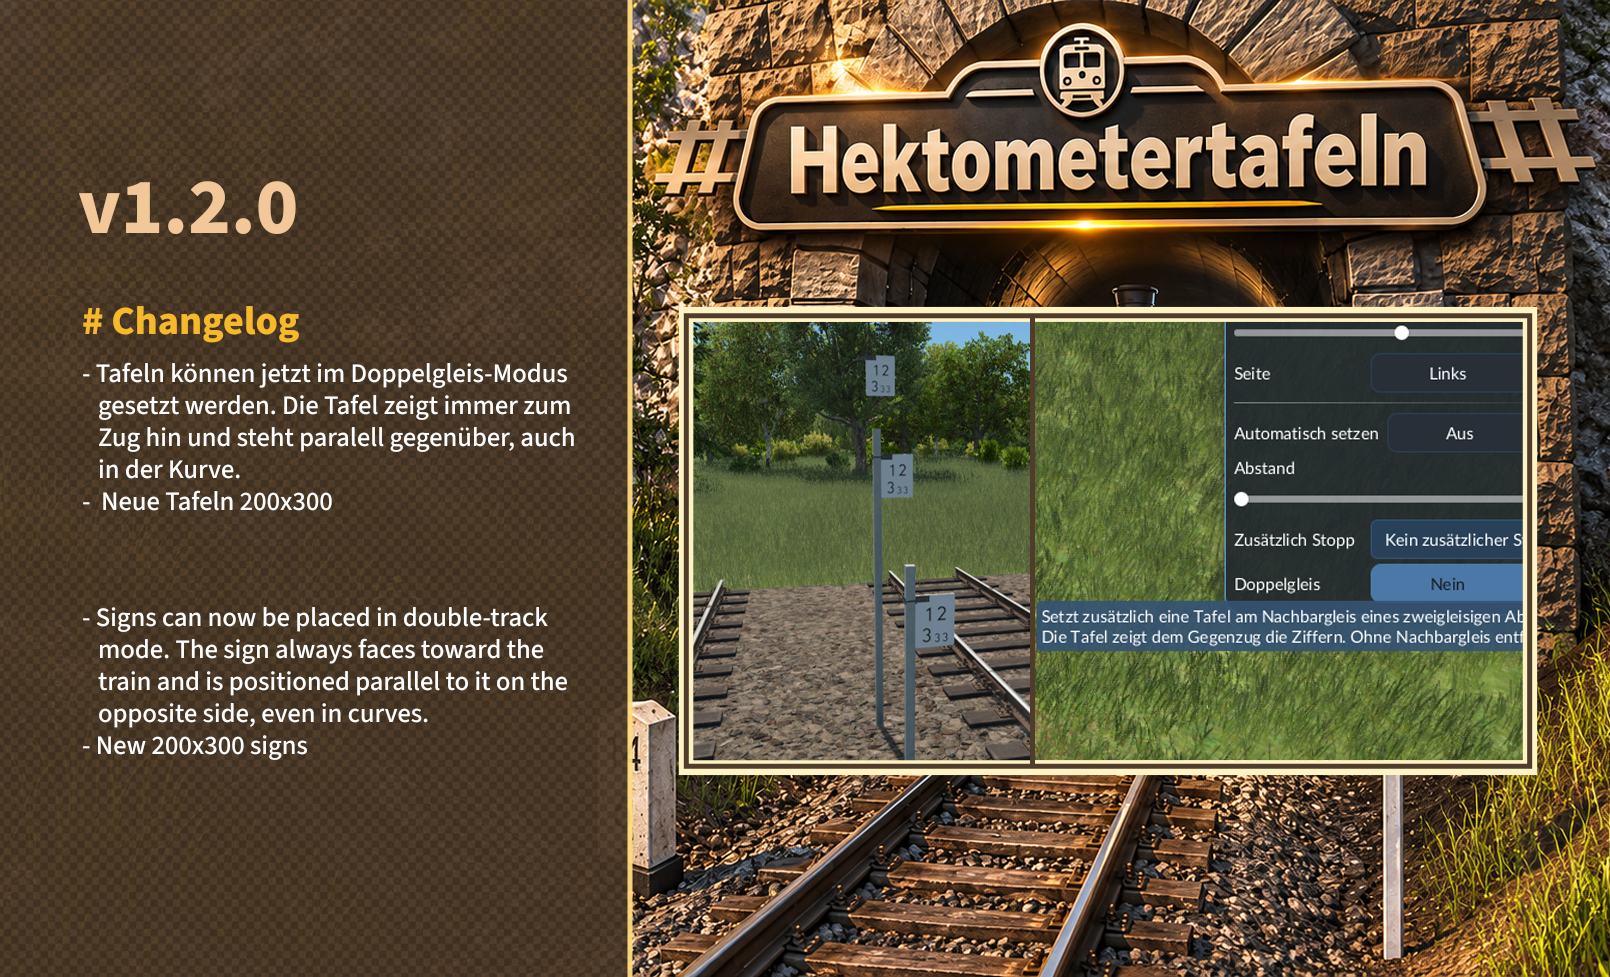
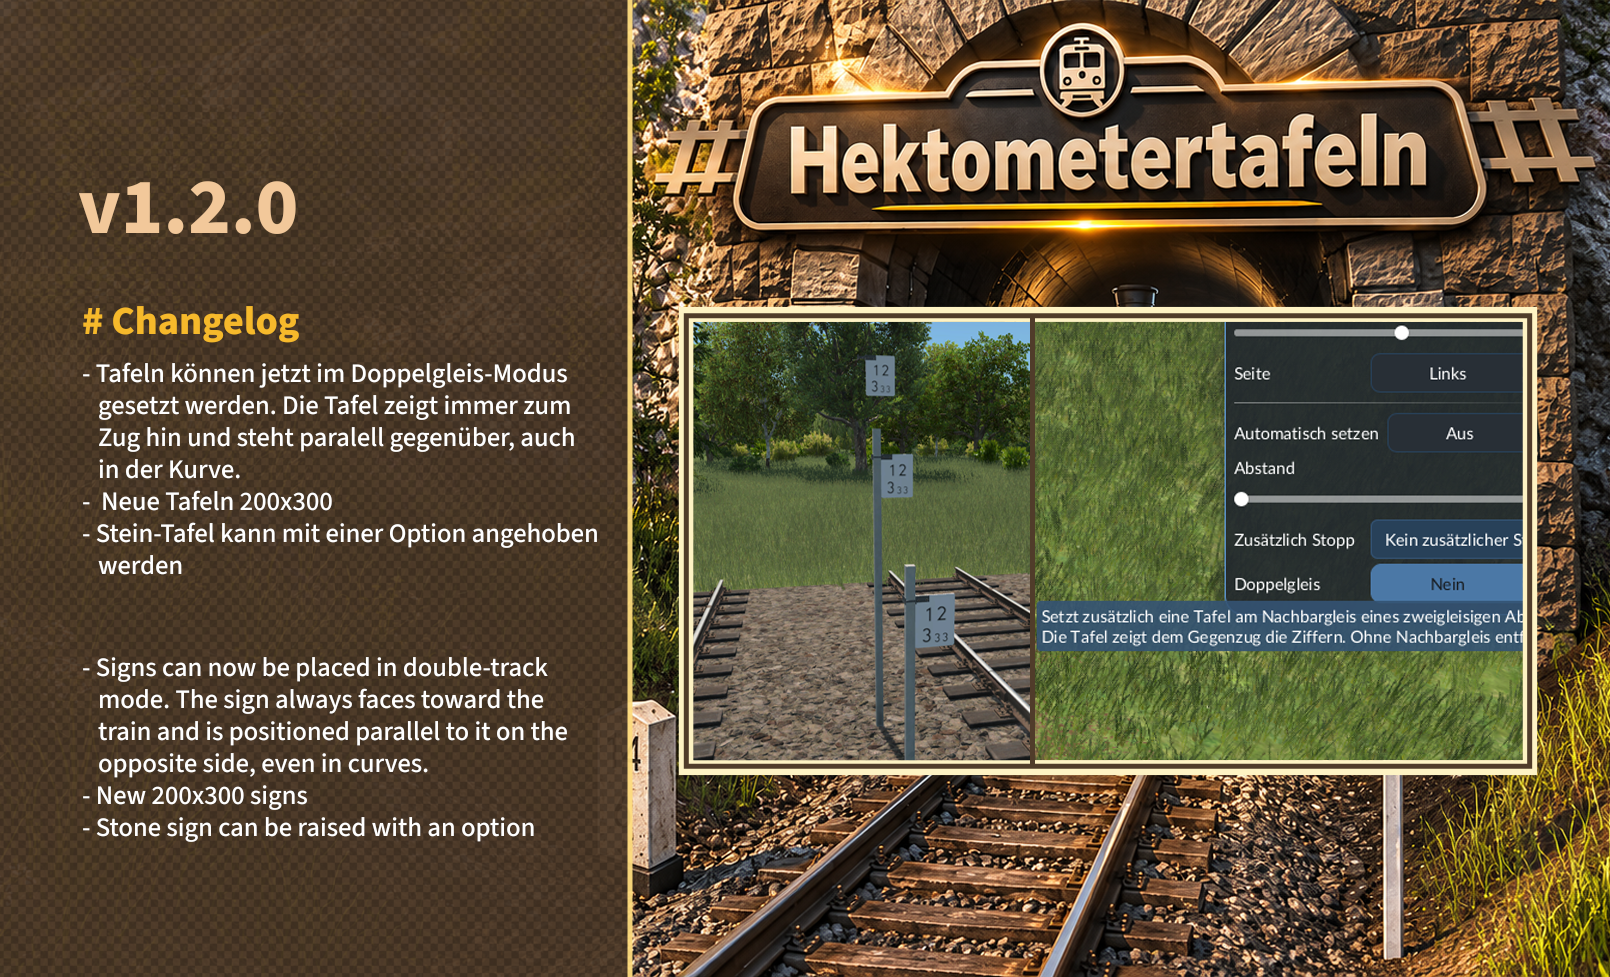
Pre-release v1.2.0

Changed region(s): [[0.0621, 0.6141, 0.3727, 0.8598], [0.0621, 0.522, 0.3727, 0.5834]]

diff --git a/_metadata/description.html b/_metadata/description.html
@@ -15,6 +15,8 @@
         Als erste Stelle kann ein Minus gewählt werden, zum Beispiel für Strecken mit negativer Kilometrierung. Auch Auto-Setzen zählt damit weiter.</li>
     <li><strong>Metergenaue Angaben</strong>
         Bei den Tafeln lässt sich zusätzlich eine zweistellige Meteranzeige unten rechts einblenden.</li>
+    <li><strong>Doppelgleis-Option</strong>
+        Zu jeder Tafel wird eine passende Partnertafel am parallelen Nachbargleis gesetzt – mit derselben Kilometrierung und Ausrichtung für den Gegenzug. Fehlt ein Nachbargleis, wird nur die Partnertafel ausgelassen. Im Auto-Setzen und einzeln möglich.</li>
 </ul>
 
 
@@ -35,6 +37,13 @@
 <p>&nbsp;</p>
 <h3>Changelog</h3>
 <ul>
+    <li>
+        <strong>v1.2.0 (Rev3)</strong> (26.11.2026)<ul>
+            <li>Doppelgleis-Feature eingebaut</li>
+            <li>Neue Tafel-Form 200x300 hinzugefügt</li>
+            <li>Stein-Tafel kann mit einer Option angehoben werden</li>
+        </ul>
+    </li>
     <li>
         <strong>v1.1.0 (Rev2)</strong> (19.11.2026)<ul>
             <li>Texturen wurden einheitlich auf 1024 angepasst</li>
@@ -67,6 +76,8 @@
         A minus can be chosen as the first digit, for example for lines with negative kilometrage. Auto placement keeps counting with it, too.</li>
     <li><strong>Metre-exact values</strong>
         On the boards a two-digit metre display can additionally be shown at the bottom right.</li>
+    <li><strong>Double track option</strong>
+        For each marker, a corresponding partner marker is placed on the parallel neighboring track – with the same kilometre marking and orientation for the opposite direction. If there is no neighboring track, only the partner marker is omitted. Available for both auto placement and individual placement.</li>
 </ul>
 
 <p>&nbsp;</p>
@@ -88,6 +99,13 @@
 
 <h3>Changelog</h3>
 <ul>
+    <li>
+        <strong>v1.2.0 (Rev3)</strong> (11/26/2026)<ul>
+            <li>Double-track feature implemented</li>
+            <li>New sign format 200x300 added</li>
+            <li>Stone sign can be raised with an option</li>
+        </ul>
+    </li>
     <li>
         <strong>v1.1.0 (Rev2)</strong> (11/19/2026)<ul>
             <li>Textures have been standardized to 1024</li>

diff --git a/readme.md b/readme.md
@@ -3,7 +3,7 @@
 <div align="center">
 
 [![TransportFever3](https://img.shields.io/badge/TransportFever3-22282E?style=flat-square)](https://www.transportfever3.com/de/)
-[![Mod.io Version](https://img.shields.io/badge/Mod.io-Rev2-07C1D8?style=flat-square)](https://mod.io/g/transportfever3/m/hektometertafeln#description)
+[![Mod.io Version](https://img.shields.io/badge/Mod.io-Rev3-07C1D8?style=flat-square)](https://mod.io/g/transportfever3/m/hektometertafeln#description)
 [![Last commit](https://img.shields.io/github/last-commit/Peppie84/tpf3-Hectometermarker?style=flat-square&color=important)](https://github.com/Peppie84/tpf3-Hectometermarker/commits/development)
 [![GitHub issues](https://img.shields.io/github/issues/Peppie84/tpf3-Hectometermarker?style=flat-square)](https://github.com/Peppie84/tpf3-Hectometermarker/issues)
 [![Top language](https://img.shields.io/github/languages/top/Peppie84/tpf3-Hectometermarker?style=flat-square&color=blueviolet)](https://github.com/search?q=repo%3APeppie84%2Ftpf3-Hectometermarker++language%3ALua&type=code)
@@ -24,13 +24,15 @@ Kilometer- und Hektometertafeln für Bahngleise in Transport Fever 3: als Stein 
 - **Mehrere Designgruppen mit Varianten**
   Hektometerstein sowie Tafeln der Bauform DE|CH|AT in den Größen 610x320 und 800x480 (zweistelliger Kilometer) und 610x480 und 800x720 (dreistelliger Kilometer). Die Tafeln gibt es mit Mast, mit Wandhalterung oder ohne Halterung, optional mit Reflektor. Die Anzeige lässt sich einseitig oder beidseitig wählen: Bei beidseitiger Anzeige sind die Ziffern auf Vorder- und Rückseite lesbar.
 - **Automatisch setzen mit Weiterzählen**
-  Beim Setzen einer Tafel wählst du einen Abstand (100 bis 1000 m). Die Mod setzt entlang des Gleises in Pfeilrichtung weitere Tafeln und zählt Kilometer und Hektometer vom Startwert weiter. An Weichen folgt das Setzen dem geradesten Gleis. Es endet am Gleisende, vor der nächsten Tafel auf derselben Seite und beim Höchstwert von 99,9 km (dreistellig 999,9 km). Auf Bahnhofsgleisen werden keine Tafeln gesetzt, die Zählung läuft dahinter weiter. Lehnt das Spiel eine Tafel ab, weicht die Mod um bis zu 15 m aus; mit aktiver Meteranzeige passen sich die Meterwerte an. Jede Tafel wird passend benannt, zum Beispiel "Hektometertafel 12,600".
+  Beim Setzen einer Tafel wählst du einen Abstand (100 bis 1000 m). Die Mod setzt entlang des Gleises in Pfeilrichtung weitere Tafeln und zählt Kilometer und Hektometer vom Startwert weiter. An Weichen folgt das Setzen dem geradesten Gleis. Es endet am Gleisende, vor der nächsten Tafel auf derselben Seite, beim Höchstwert von 99,9 km (dreistellig 999,9 km) oder beim selektierten Stopp. Auf Bahnhofsgleisen werden keine Tafeln gesetzt, die Zählung läuft dahinter weiter. Lehnt das Spiel eine Tafel ab, weicht die Mod um bis zu 15 m aus; mit aktiver Meteranzeige passen sich die Meterwerte an. Jede Tafel wird passend benannt, zum Beispiel "Hektometertafel 12,600".
 - **Höhe und Versatz wählbar**
   Tief, Default oder Hoch (Hoch nur bei Wandhalterung und ohne Halterung), dazu die Seite, Abstand zur Gleismitte (1,8 bis 3,4 m) und Versatz (±1,5 m).
 - **Negative Werte**
   Als erste Stelle kann ein Minus gewählt werden, zum Beispiel für Strecken mit negativer Kilometrierung. Auch Auto-Setzen zählt damit weiter.
 - **Meter-genaue Angaben**
   Bei den Tafeln lässt sich zusätzlich eine zweistellige Meteranzeige unten rechts einblenden.
+- **Doppelgleis-Option**
+  Zu jeder Tafel wird eine passende Partnertafel am parallelen Nachbargleis gesetzt – mit derselben Kilometrierung und Ausrichtung für den Gegenzug. Fehlt ein Nachbargleis, wird nur die Partnertafel ausgelassen. Im Auto-Setzen und einzeln möglich.
 
 ### Hinweis zur KI Nutzung
 Bei einzelnen kleineren Teilbereichen der Entwicklung (z. B. Code-Hilfe oder Textformulierung) kam unterstützend KI (Microsoft Copilot) zum Einsatz. Das Titelbild (basierend auf einem eigenen Screenshot) sowie das Logo wurden mithilfe von ChatGPT erstellt.
@@ -45,6 +47,10 @@ Bugs oder Features können auf GitHub oder Mod.io gemeldet werden.
 
 ### Changelog
 
+- **v1.2.0 (Rev3)** (26.11.2026)<br />
+  - Doppelgleis-Feature eingebaut<br />
+  - Neue Tafel-Form 200x300 hinzugefügt<br />
+  - Stein-Tafel kann mit einer Option angehoben werden<br />
 - **v1.1.0 (Rev2)** (19.11.2026)<br />
   - Texturen wurden einheitlich auf 1024<br />
     angepasst<br />
@@ -68,13 +74,15 @@ Kilometre and hectometre markers for railway tracks in Transport Fever 3: as a s
 - **Several design groups with variants**
   Hectometre stone and DE|CH|AT-style boards in the sizes 610x320 and 800x480 (two-digit kilometre) as well as 610x480 and 800x720 (three-digit kilometre). The boards are available with a pole, wall brackets or without mounting, optionally with a reflector. The display can be single-sided or both-sided: with both-sided display the digits are readable from the front and the back.
 - **Auto placement with continuous counting**
-  When placing a marker you choose a spacing (100 to 1000 m). The mod places further markers along the track in the direction of the arrow and keeps counting kilometres and hectometres from the start value. At switches placement follows the straightest track. It ends at the end of the track, before the next marker on the same side and at the highest value of 99.9 km (three-digit: 999.9 km). No markers are placed on station tracks; counting continues behind them. If the game rejects a marker, the mod moves it by up to 15 m; with the metre display on, the metre values adapt. Every marker is named accordingly, for example "Hectometer marker 12,6".
+  When placing a marker you choose a spacing (100 to 1000 m). The mod places further markers along the track in the direction of the arrow and keeps counting kilometres and hectometres from the start value. At switches placement follows the straightest track. It ends at the end of the track, before the next marker on the same side, at the highest value of 99.9 km (three-digit: 999.9 km) or at the selected stop. No markers are placed on station tracks; counting continues behind them. If the game rejects a marker, the mod moves it by up to 15 m; with the metre display on, the metre values adapt. Every marker is named accordingly, for example "Hectometer marker 12,6".
 - **Selectable height and offset**
   Low, Default or High (High only with wall brackets or without mounting), plus side, distance from the track centre (1.8 to 3.4 m) and offset forward/backward (±1.5 m).
 - **Negative values**
   A minus can be chosen as the first digit, for example for lines with negative kilometrage. Auto placement keeps counting with it, too.
 - **Metre-exact values**
   On the boards a two-digit metre display can additionally be shown at the bottom right.
+- **Double track option**
+  For each marker, a corresponding partner marker is placed on the parallel neighboring track – with the same kilometre marking and orientation for the opposite direction. If there is no neighboring track, only the partner marker is omitted. Available for both auto placement and individual placement.
 
 ### Note on AI Usage
 AI (Microsoft Copilot) was used to provide support for certain minor aspects of the development process (e.g., coding assistance or drafting text). The cover image (based on a screenshot I captured myself) and the logo were created using ChatGPT.
@@ -88,6 +96,10 @@ Bugs or feature requests can be reported on GitHub or mod.io.
 
 ### Changelog
 
+- **v1.2.0 (Rev3)** (11/26/2026)<br />
+  - Double-track feature implemented<br />
+  - New sign format 200x300 added<br />
+  - Stone sign can be raised with an option<br />
 - **v1.1.0 (Rev2)** (11/19/2026)<br />
   - Textures have been standardized to 1024<br />
   - Fixed an unforeseen conflict with another<br />
